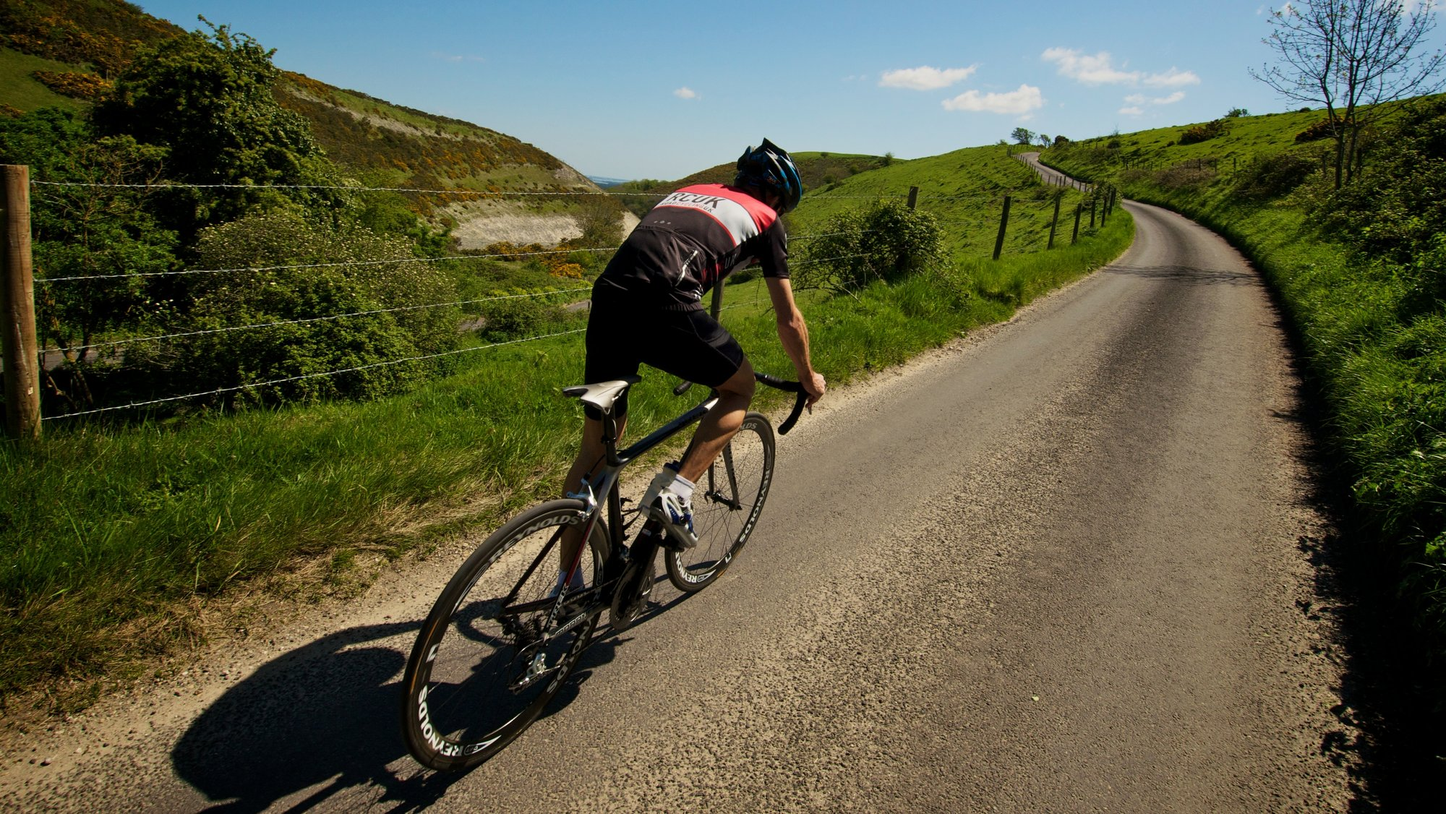
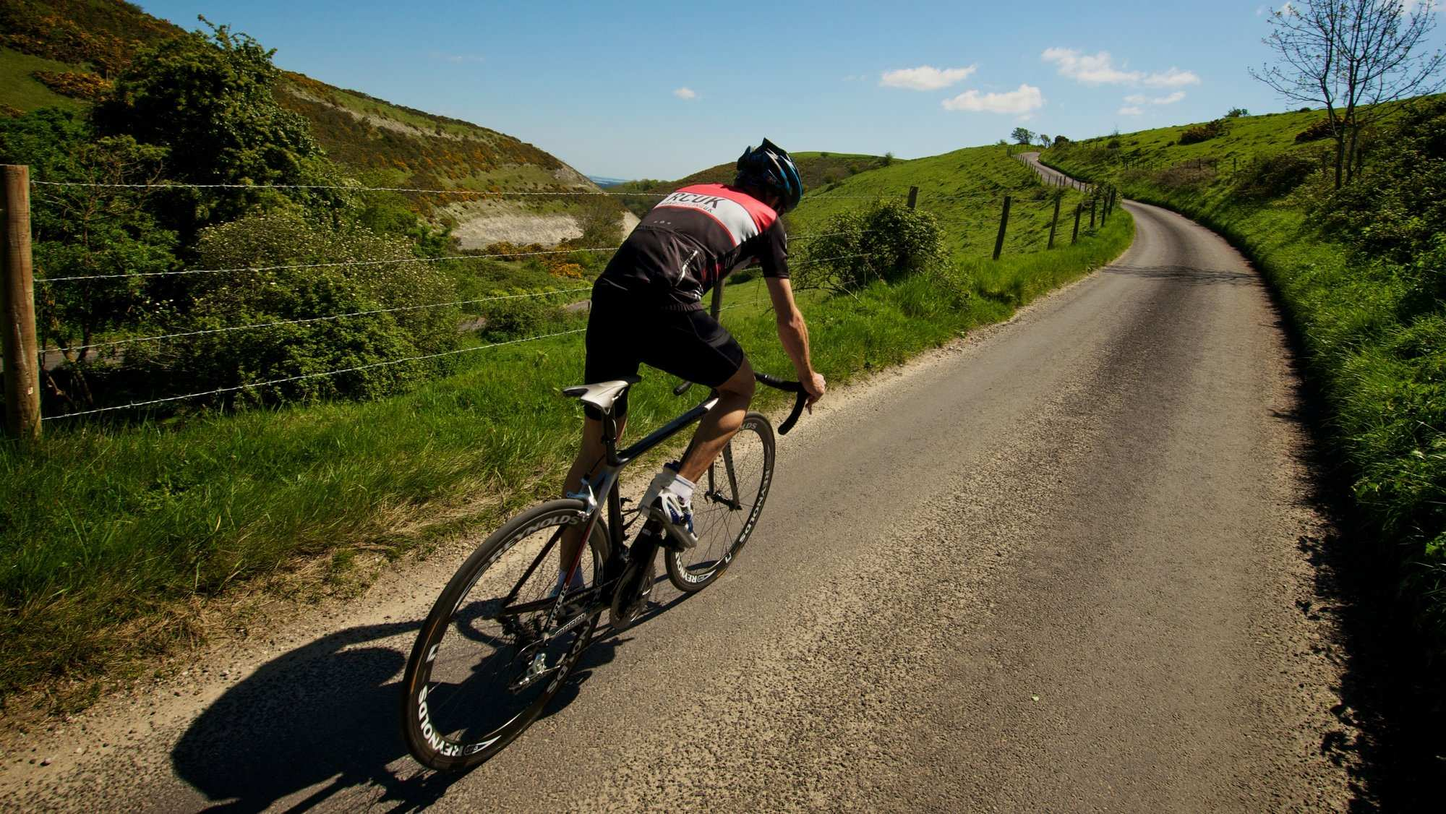
Replace image, use pro version

Changed region(s): [[0.93, 0.0622, 0.961, 0.0933]]

diff --git a/index.html b/index.html
@@ -86,7 +86,7 @@
       <div class="row">
 
         <div class="col-md-6 about-img">
-          <img src="img/image2.png" alt="Van Purser">
+          <img src="img/image2.jpg" alt="Van Purser">
         </div>
 
         <div class="col-md-6 about-content">
@@ -169,7 +169,7 @@
           <div class="info">
             <div>
               <i class="fa fa-envelope"></i>
-              <p>info@vanpurserfoundation.com</p>
+              <p>info@vanpurserfoundation.org</p>
             </div>
           </div>
         </div>
@@ -215,13 +215,7 @@
             &copy; Copyright <strong>Van Purser Foundation</strong>. All Rights Reserved
           </div>
           <div class="credits">
-            <!--
-              All the links in the footer should remain intact.
-              You can delete the links only if you purchased the pro version.
-              Licensing information: https://bootstrapmade.com/license/
-              Purchase the pro version with working PHP/AJAX contact form: https://bootstrapmade.com/buy/?theme=Imperial
-            -->
-            Designed by <a href="https://bootstrapmade.com/">BootstrapMade</a>
+            <!--Created by <a href="https://github.com/D3v01dZA">Christopher Altona</a>-->
           </div>
         </div>
       </div>

diff --git a/contactform/contactform.php b/contactform/contactform.php
@@ -1,0 +1,80 @@
+<?php
+/*
+  PHP contact form script
+  Version: 1.1
+  Copyrights BootstrapMade.com
+*/
+
+/***************** Configuration *****************/
+
+  // Replace with your real receiving email address
+  $contact_email_to = "caltona1@gmail.com";
+
+  // Title prefixes
+  $subject_title = "Contact Form Message:";
+  $name_title = "Name:";
+  $email_title = "Email:";
+  $message_title = "Message:";
+
+  // Error messages
+  $contact_error_name = "Name is too short or empty!";
+  $contact_error_email = "Please enter a valid email!";
+  $contact_error_subject = "Subject is too short or empty!";
+  $contact_error_message = "Too short message! Please enter something.";
+
+/********** Do not edit from the below line ***********/
+
+  if(!isset($_SERVER['HTTP_X_REQUESTED_WITH']) AND strtolower($_SERVER['HTTP_X_REQUESTED_WITH']) != 'xmlhttprequest') {
+    die('Sorry Request must be Ajax POST');
+  }
+
+  if(isset($_POST)) {
+
+    $name = filter_var($_POST["name"], FILTER_SANITIZE_STRING);
+    $email = filter_var($_POST["email"], FILTER_SANITIZE_EMAIL);
+    $subject = filter_var($_POST["subject"], FILTER_SANITIZE_STRING, FILTER_FLAG_NO_ENCODE_QUOTES);
+    $message = filter_var($_POST["message"], FILTER_SANITIZE_STRING);
+
+    if(!$contact_email_to || $contact_email_to == 'contact@example.com') {
+      die('The contact form receiving email address is not configured!');
+    }
+
+    if(strlen($name)<3){
+      die($contact_error_name);
+    }
+
+    if(!$email){
+      die($contact_error_email);
+    }
+
+    if(strlen($subject)<3){
+      die($contact_error_subject);
+    }
+
+    if(strlen($message)<3){
+      die($contact_error_message);
+    }
+
+    if(!isset($contact_email_from)) {
+      $contact_email_from = "contactform@" . @preg_replace('/^www\./','', $_SERVER['SERVER_NAME']);
+    }
+
+    $headers = 'From: ' . $name . ' <' . $contact_email_from . '>' . PHP_EOL;
+    $headers .= 'Reply-To: ' . $email . PHP_EOL;
+    $headers .= 'MIME-Version: 1.0' . PHP_EOL;
+    $headers .= 'Content-Type: text/html; charset=UTF-8' . PHP_EOL;
+    $headers .= 'X-Mailer: PHP/' . phpversion();
+
+    $message_content = '<strong>' . $name_title . '</strong> ' . $name . '<br>';
+    $message_content .= '<strong>' . $email_title . '</strong> ' . $email . '<br>';
+    $message_content .= '<strong>' . $message_title . '</strong> ' . nl2br($message);
+
+    $sendemail = mail($contact_email_to, $subject_title . ' ' . $subject, $message_content, $headers);
+
+    if( $sendemail ) {
+      echo 'OK';
+    } else {
+      echo 'Could not send mail! Please check your PHP mail configuration.';
+    }
+  }
+?>
